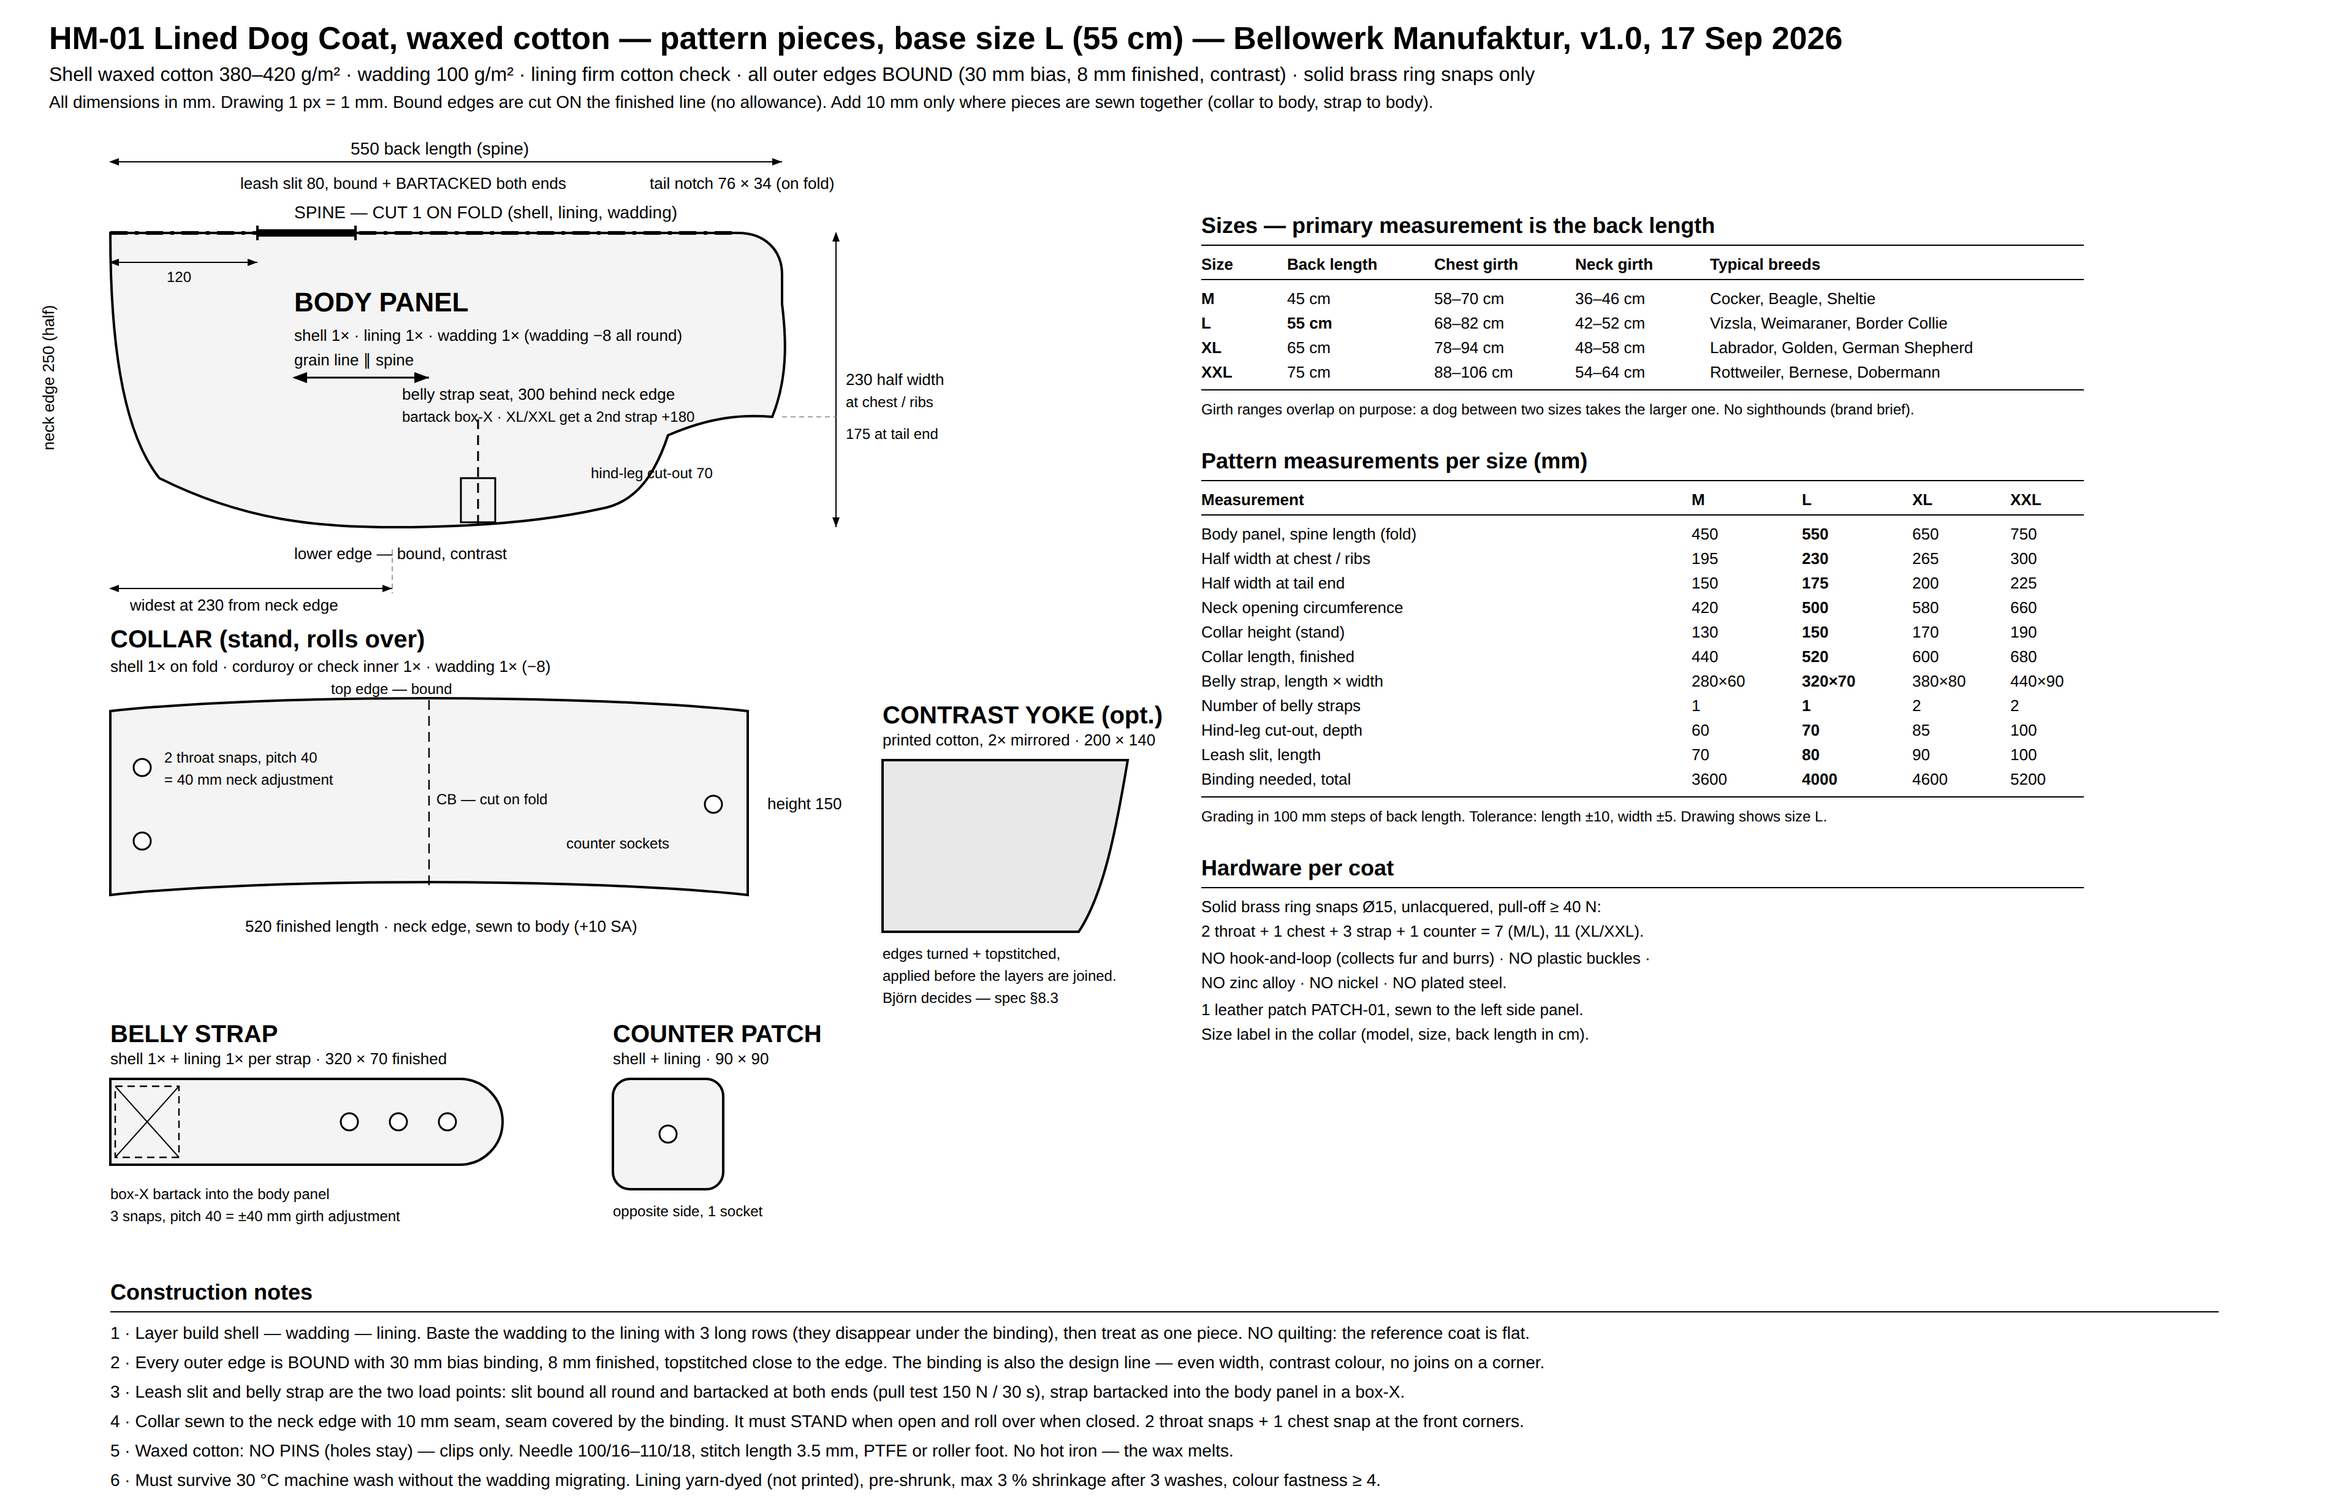
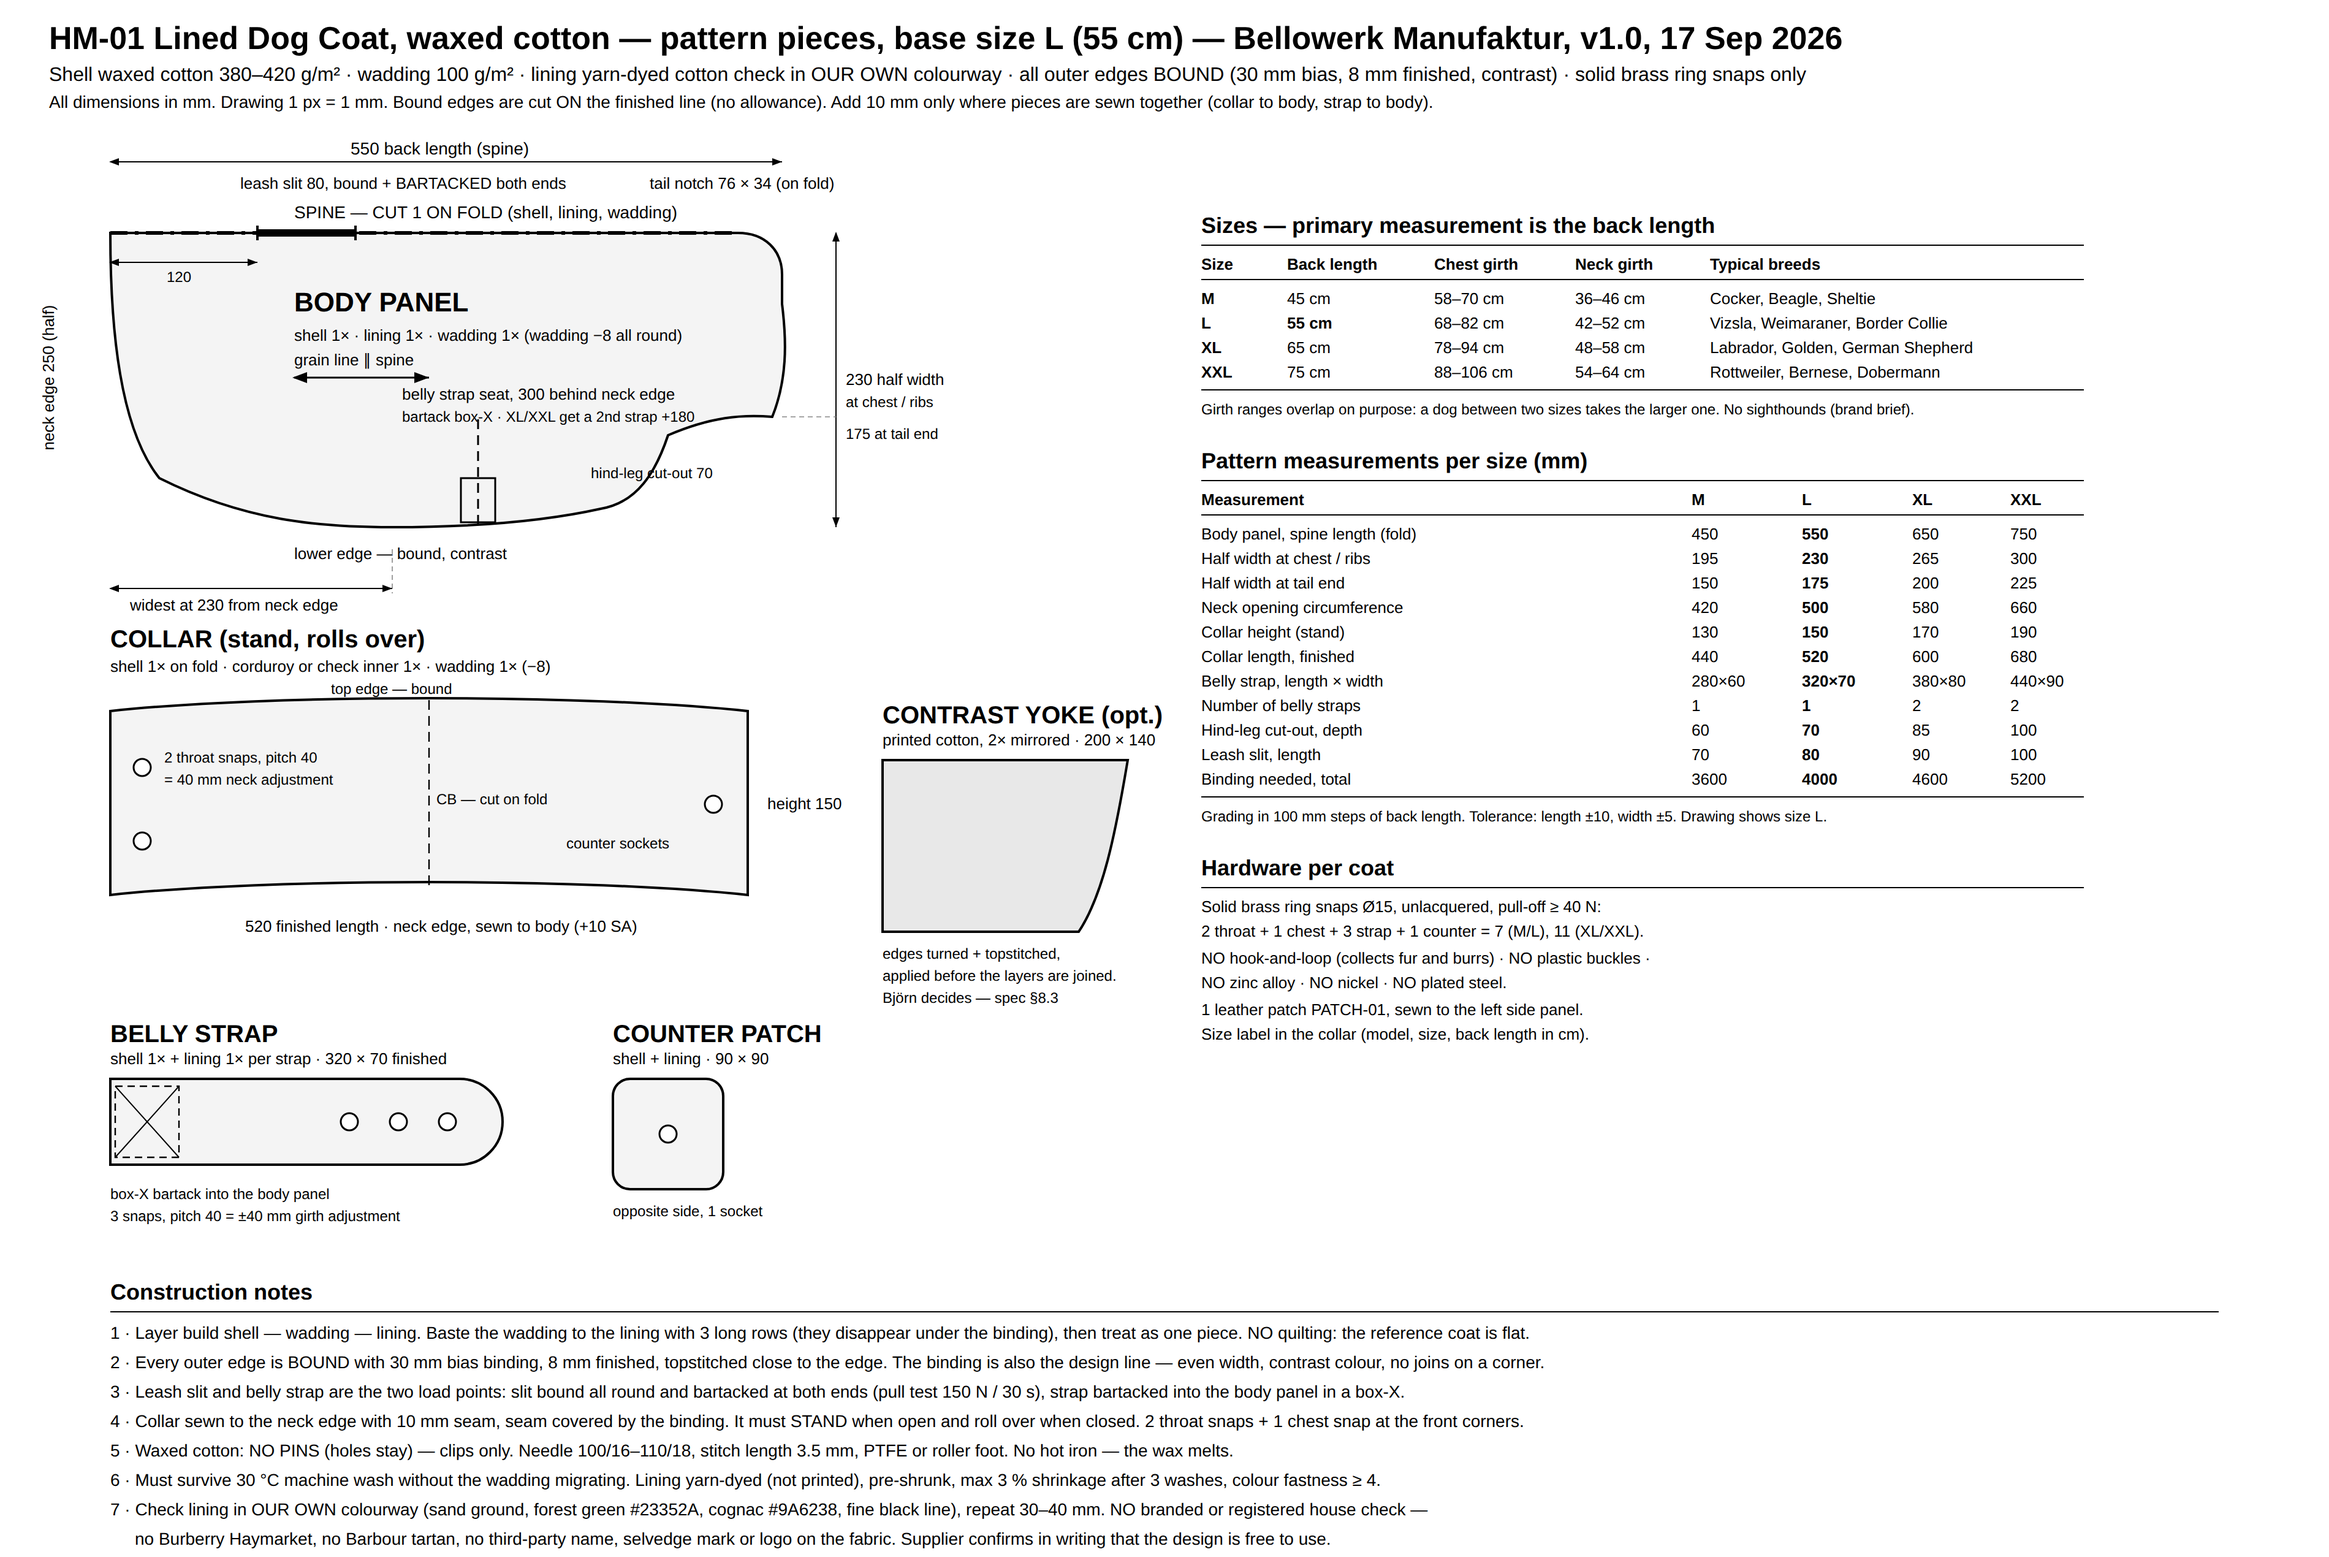
HM-01: Karo-Futter bestätigt, aber in eigener Farbstellung
Björn bestätigt das britische Karo als Futter. Das Burberry-Haymarket-Karo ist
eingetragene Marke — ein Hersteller, der es anbietet, bietet ein Plagiat an.
Die Spec fordert deshalb eine eigene Farbstellung aus den Markenfarben
(Sand, Waldgrün, Cognac, feine schwarze Linie) und verbietet ausdrücklich
jedes Marken-Karo und jede fremde Webkante. Der Lieferant bestätigt die
Rechtefreiheit des Dessins schriftlich.

Claude-Session: https://claude.ai/code/session_01TCjyw6Et76p2KV5CRMgwz7

diff --git a/sourcing/bellowerk/specs/HM-01-hundemantel-gefuettert.md b/sourcing/bellowerk/specs/HM-01-hundemantel-gefuettert.md
@@ -21,7 +21,8 @@ for sighthounds (`markenbrief.md`).
 | Part | Specification |
 |---|---|
 | Shell | **Waxed cotton ("oilskin")**, 100 % cotton, dry-wax finish, **380–420 g/m²** (10–12 oz), same article as RC-01. Re-waxable, not PU/PVC coated. Colours: dark olive, black, dark brown. |
-| Lining | **Firm woven cotton check**, classic British tartan look (Barbour/Burberry character), 100 % cotton, **180–220 g/m²**, yarn-dyed (not printed), pre-shrunk. *Assumption from the briefing ("Blueberry style") — if a plain blue cotton was meant instead, correct here before the RFQ goes out.* |
+| Lining | **Firm woven cotton check**, classic British house-check character, 100 % cotton, **180–220 g/m²**, **yarn-dyed (not printed)**, pre-shrunk, check repeat 30–40 mm. **Our own colourway**, derived from the brand palette: sand/camel ground, overcheck in forest green #23352A and cognac #9A6238, plus one fine black line. |
+| Lining — what you must NOT supply | **No branded or registered check.** Do not offer, copy or substitute the Burberry Haymarket check, the Barbour tartan, or any other trademarked house check, and no fabric carrying a third-party name, selvedge mark or logo. We reject the whole lot on arrival if you do. Send 3 alternative colourways of an **original** check on the strike-off and we choose. |
 | Lining, alternative | Polyester taffeta 190T, ripstop, as a slip lining for easier on/off — offer both, we compare on the sample. |
 | Wadding | Polyester wadding **100 g/m²**, thermally bonded, washable at 30 °C, not migrating. ("Lightly lined" — no thick quilt.) |
 | Collar inside | Cotton corduroy 8 wales/cm, 280 g/m², or the check lining — offer both. |
@@ -132,8 +133,10 @@ finished line). Add 10 mm where pieces are sewn to each other (collar to body, s
 ## 8. Open decisions for Björn (nothing ordered, nothing promised)
 
 1. **New product category** (textile) — same question as RC-01 section 8.1.
-2. **Lining**: "Blueberry style" read as a British check. Confirm — check, or plain blue?
-   Check cotton or polyester slip lining as the standard version?
+2. **Lining colourway** (the check itself is confirmed, 17 Sep 2026). We cannot order the Burberry
+   check — it is a registered trademark, and a factory that offers it is offering a counterfeit.
+   Proposed own colourway: sand ground + forest green + cognac + a fine black line. Björn picks
+   from the 3 strike-offs. Also: check cotton or polyester slip lining as the standard version?
 3. **Contrast yoke** (section 5.8): keep the printed panel from the reference coat, or plain?
 4. **Binding colour**: rust/orange as on the photos, or tone in tone?
 5. **Size M**: our brand brief says medium to large dogs. Do we still offer M (45 cm), or start
@@ -146,7 +149,9 @@ finished line). Add 10 mm where pieces are sewn to each other (collar to body, s
 3. Sample cost and sample lead time (both lining versions)
 4. Production lead time after golden sample approval
 5. Payment terms (we propose 30 % after golden sample, 70 % after final inspection before shipment)
-6. Which waxed cotton and which check cotton do you stock — mill name, article number, weight
+6. Which waxed cotton and which check cotton do you stock — mill name, article number, weight.
+   For the check: confirm in writing that the design is your own or freely usable, and that it does
+   not reproduce a registered house check.
 7. Photo and weight in grams of the exact brass snap you would use
 8. Are pattern files (PDF 1:1 + DXF) included — yes/no
 9. Can you also make RC-01 (the human cape), or only dog products?

diff --git a/sourcing/bellowerk/markenbrief.md b/sourcing/bellowerk/markenbrief.md
@@ -67,7 +67,7 @@ stehen in Abschnitt 8 der jeweiligen Spec.
 | Modell | Beschreibung | Spec |
 |---|---|---|
 | RC-01 | Regencape Oilskin (gewachste Baumwolle), vorne durchgehend offen, Ärmel am Unterarm mit Messing-Druckknöpfen schließbar, Kapuze, 3 Größen | `specs/RC-01-regencape-oilskin.md` |
-| HM-01 | Hundemantel leicht gefüttert: Oilskin außen, Vlies 100 g/m², Karo-Baumwollfutter, Stehkragen, Bauchgurt, 4 Größen (Rückenlänge 45/55/65/75 cm) | `specs/HM-01-hundemantel-gefuettert.md` |
+| HM-01 | Hundemantel leicht gefüttert: Oilskin außen, Vlies 100 g/m², Karo-Baumwollfutter **in eigener Farbstellung** (kein Marken-Karo — Burberry/Barbour sind eingetragen), Stehkragen, Bauchgurt, 4 Größen (Rückenlänge 45/55/65/75 cm) | `specs/HM-01-hundemantel-gefuettert.md` |
 
 Grundsatz laut Björn: **schlichte Produkte, bei denen die Messingringe und -schnallen zur Geltung
 kommen**. Erste Bestellung: Patch nur mit "Bellowerk", keine Personalisierung. HB-01 und LE-01 sind
